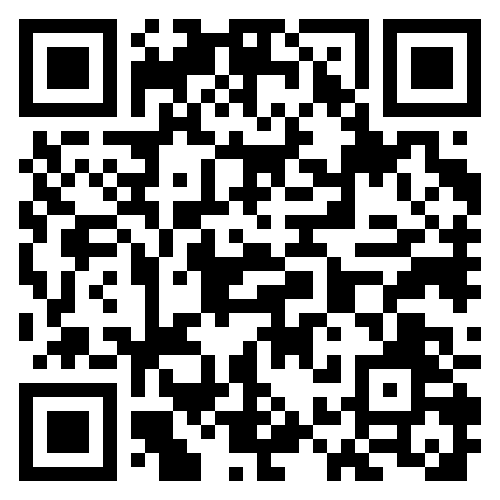
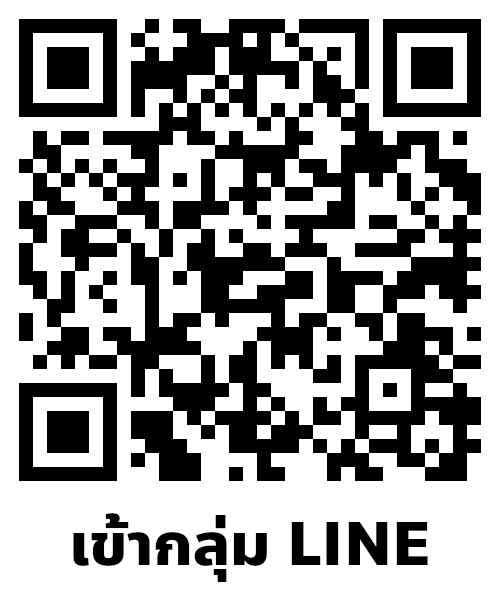
change qr codes and add wifi info

diff --git a/hack2/index.html b/hack2/index.html
@@ -61,7 +61,10 @@ p, a {
 <p><a href="https://iampz.github.io/c60-cms/" target="_blank">โปรแกรมจัดการข้อมูล</a></p>
 <p><a href="https://iampz.github.io/c60-cms/pdf/001.pdf" target="_blank">เอกสารการประชุม</a></p>
 <p><a href="https://line.me/R/ti/g/WsnCgOqFOu" target="_blank">Link เข้ากลุ่ม LINE</a></p>
-<p><a href="./qrcode.html" target="_blank">QR Code เข้ากลุ่ม LINE</a></p>
+<p><a href="https://form.parliament.go.th/wifi/user/" target="_blank">Link เข้าใช้ Wi-Fi</a></p>
+<p>[ Wi-Fi SSID: Parliament-Guest ]</p>
+<p><a href="./line.html" target="_blank">QR Code เข้ากลุ่ม LINE</a></p>
+<p><a href="./wifi.html" target="_blank">QR Code เข้าใช้ Wi-Fi</a></p>
 
 <h4>ดาวน์โหลดชุดข้อมูล</h4>
 <div id="download">
